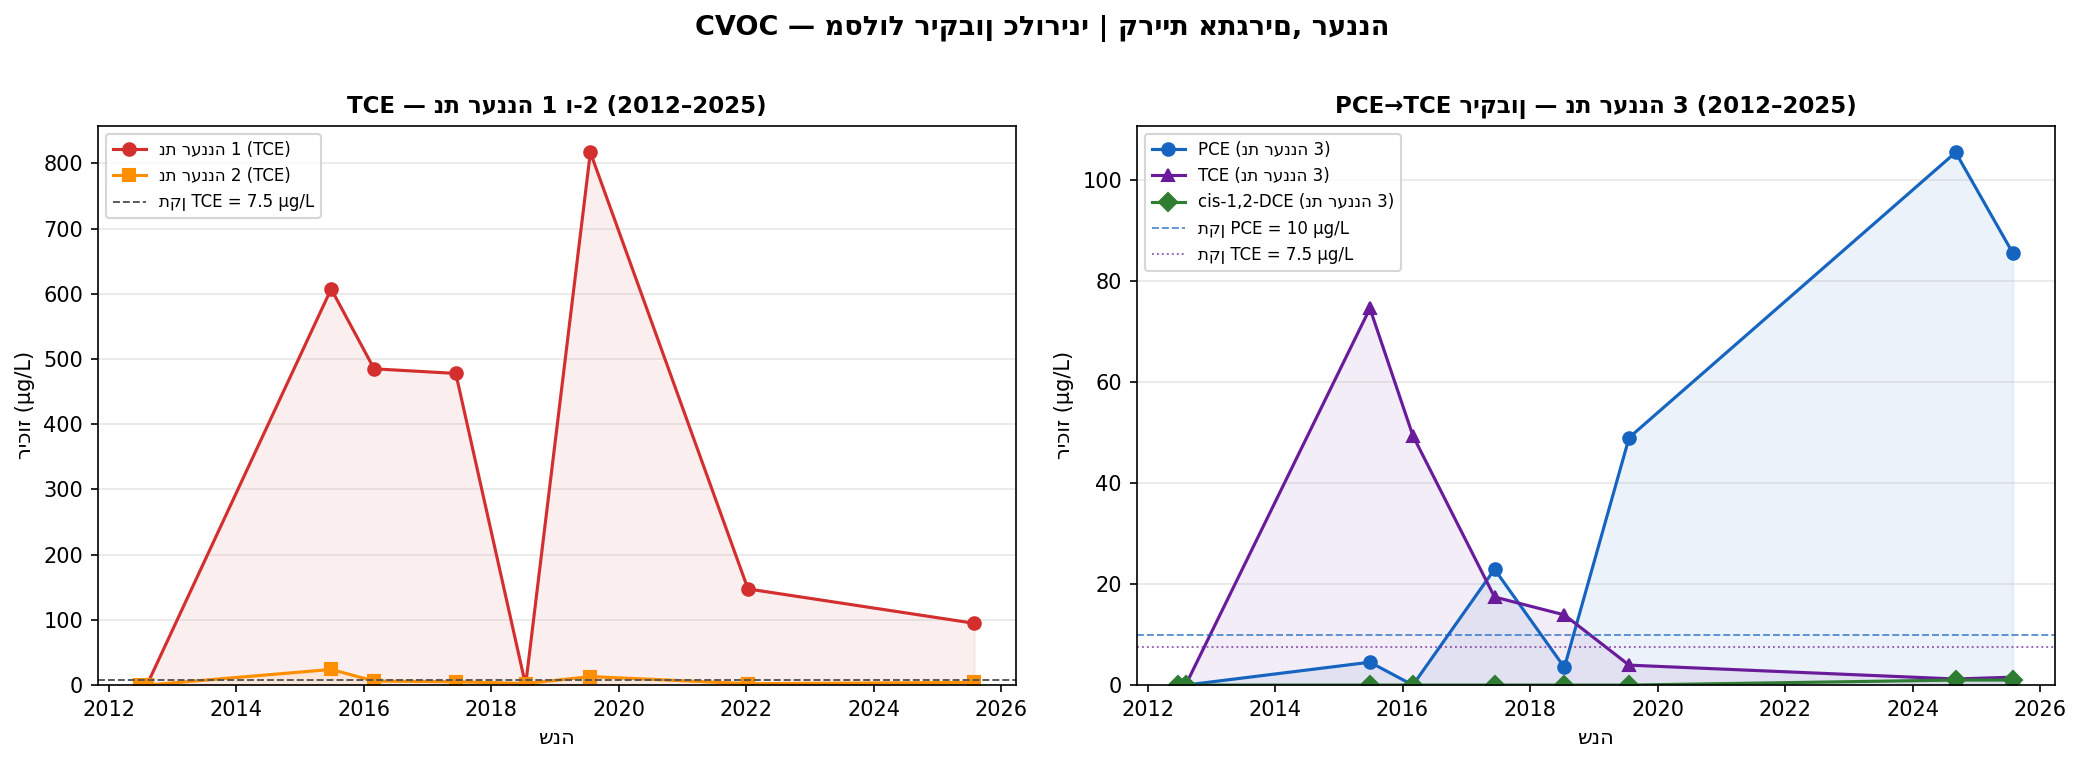
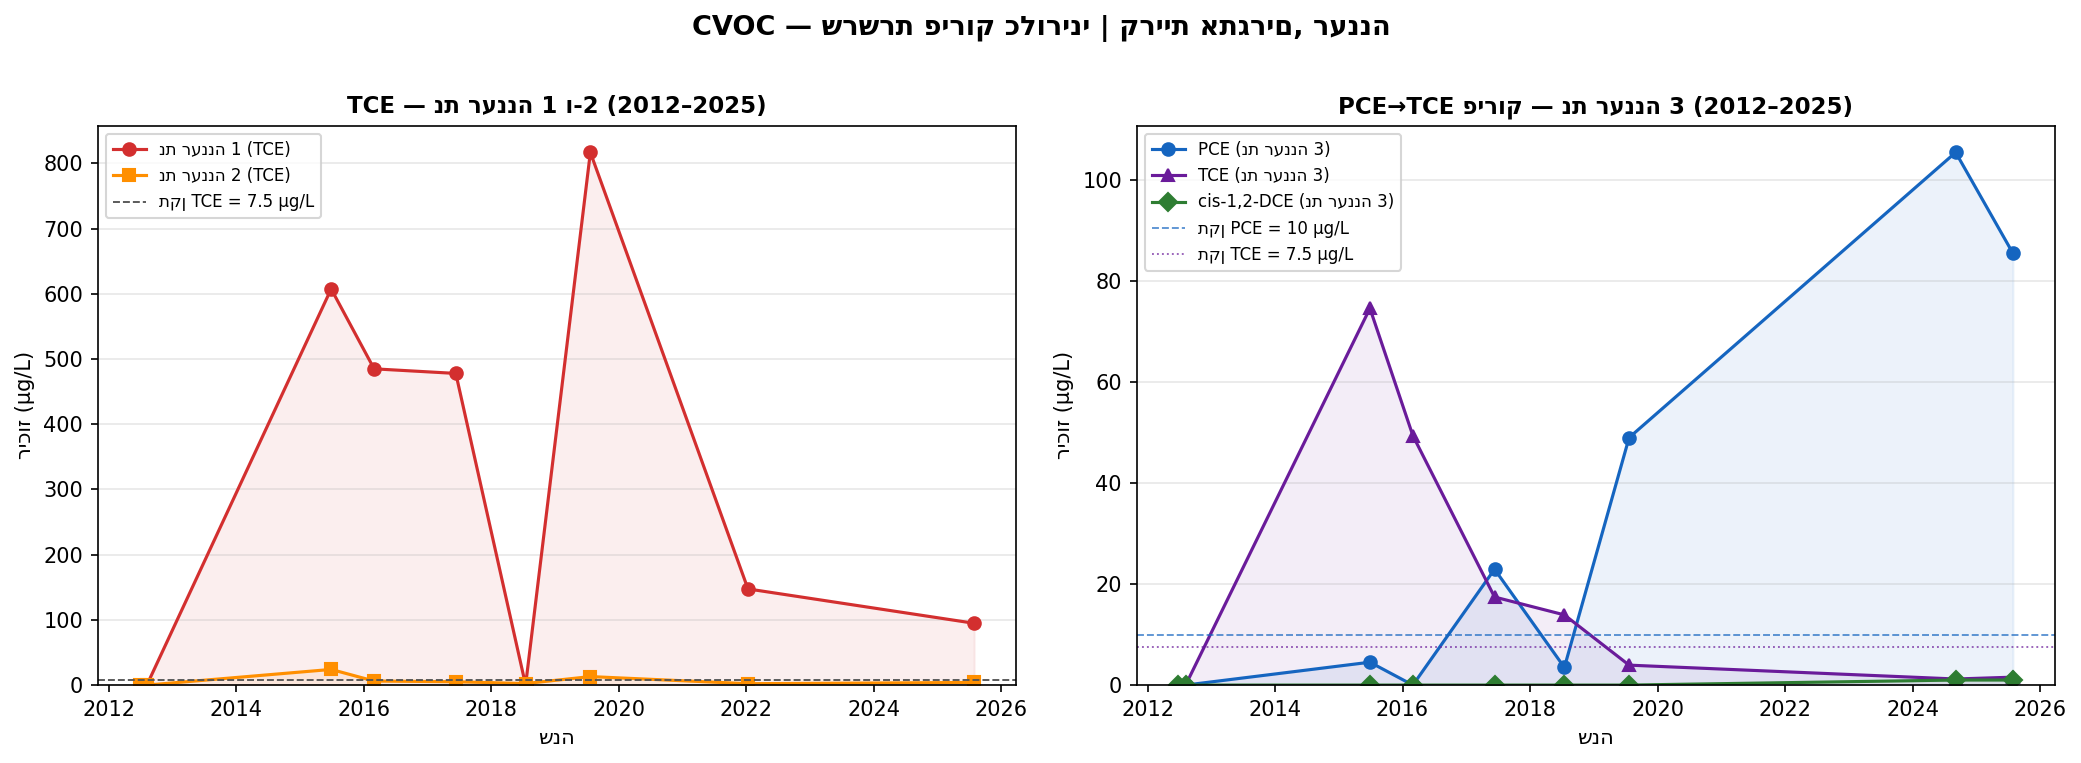
[V2-FIX] Add 4 new V2 charts; fix terminology in chart titles
New charts (generate_charts_v2.py → Raanana/charts_v2/):
  6. cvoc_stacked_grouped.png      — CVOC by borehole + year (stacked grouped bars)
  7. pfas_pct_stacked.png          — 100%-stacked PFAS S/A source signature
  8. btex_family_stacked.png       — BTEX full family stacked at Paz Hanofer
  9. cvoc_pct_standard_panel.png   — 4-borehole panel: % of standard TCE/PCE

Also fixed chart-title terminology in existing charts:
  - "ריקבון" → "פירוק" in cvoc_timeseries panel titles

All 26 tests pass; 9 charts generated from measurements.csv (2,613 rows).

Tracing: measurements.csv 2011-2026; chart_presets.json palettes
https://claude.ai/code/session_01VLoT2vE82jwapmUNCB4wRe

Changed region(s): [[0.3436, 0.0, 0.6559, 0.0603], [0.6247, 0.1206, 0.9058, 0.1507]]

diff --git a/scripts/generate_charts_v2.py b/scripts/generate_charts_v2.py
@@ -1,10 +1,15 @@
 """Generate V2 charts for Industrial Areas Report — Raanana zone.
 
 Charts produced:
-  1. cvoc_timeseries.png         — TCE (nt_1, nt_2) + PCE (nt_3) time-series 2012-2025
-  2. pfas_stacked_turbine.png    — PFAS species at nd_turbine, S/A groups, absolute + % of standard
-  3. btex_timeseries_paz.png     — Benzene at nd_paz 2011-2024
-  4. cvoc_cross_borehole.png     — Max annual TCE/PCE across boreholes comparison
+  1. cvoc_timeseries.png          — TCE (nt_1, nt_2) + PCE (nt_3) time-series 2012-2025
+  2. pfas_stacked_turbine.png     — PFAS species at nd_turbine, S/A groups, absolute + % of standard
+  3. btex_timeseries_paz.png      — Benzene at nd_paz 2011-2024
+  4. cvoc_cross_borehole.png      — Max annual TCE/PCE across boreholes comparison
+  5. tce_timeseries_p25.png       — TCE at p25 production well (exceedance detail)
+  6. cvoc_stacked_grouped.png     — Stacked-grouped CVOC (TCE+PCE+cis-DCE) by year per borehole
+  7. pfas_pct_stacked.png         — 100%-stacked PFAS for AFFF source-signature (S/A grouping)
+  8. btex_family_stacked.png      — BTEX full family stacked at Paz Hanofer
+  9. cvoc_pct_standard_panel.png  — 4-borehole panel: % of standard TCE/PCE over time
 
 Usage:
   python scripts/generate_charts_v2.py [--zone raanana] [--output Raanana/charts_v2]
@@ -104,14 +109,14 @@ def chart_cvoc_timeseries(df: pd.DataFrame, out: Path) -> None:
 
     ax.axhline(10.0, color="#1565C0", linestyle="--", linewidth=0.9, alpha=0.7, label="תקן PCE = 10 µg/L")
     ax.axhline(7.5, color="#6A1B9A", linestyle=":", linewidth=0.9, alpha=0.7, label="תקן TCE = 7.5 µg/L")
-    ax.set_title("PCE→TCE ריקבון — נת רעננה 3 (2012–2025)", fontsize=11, fontweight="bold")
+    ax.set_title("PCE→TCE פירוק — נת רעננה 3 (2012–2025)", fontsize=11, fontweight="bold")
     ax.set_ylabel("ריכוז (µg/L)", fontsize=10)
     ax.set_xlabel("שנה", fontsize=10)
     ax.legend(fontsize=8, loc="upper left")
     ax.grid(axis="y", alpha=0.3)
     ax.set_ylim(bottom=0)
 
-    fig.suptitle("CVOC — מסלול ריקבון כלוריני | קריית אתגרים, רעננה", fontsize=13, fontweight="bold", y=1.01)
+    fig.suptitle("CVOC — שרשרת פירוק כלוריני | קריית אתגרים, רעננה", fontsize=13, fontweight="bold", y=1.01)
     plt.tight_layout()
     fig.savefig(out / "cvoc_timeseries.png", dpi=150, bbox_inches="tight")
     plt.close(fig)
@@ -338,6 +343,238 @@ def chart_tce_p25(df: pd.DataFrame, out: Path) -> None:
     print(f"  Saved: tce_timeseries_p25.png")
 
 
+# ── Chart 6: Stacked-Grouped CVOC by Year ─────────────────────────────────────
+def chart_cvoc_stacked_grouped(df: pd.DataFrame, out: Path) -> None:
+    """Stacked grouped bar: TCE+PCE+cis-DCE per borehole, selected years."""
+    years = [2012, 2015, 2018, 2022, 2025]
+    boreholes = ["raanana_nt_1", "raanana_nt_2", "raanana_nt_3", "raanana_p_25"]
+    bh_labels = ["נת רעננה 1", "נת רעננה 2", "נת רעננה 3", "פ רעננה 25"]
+    params = [("TCEY", "TCE", "#D32F2F"), ("TECE", "PCE", "#1565C0"), ("CDCE", "cis-1,2-DCE", "#2E7D32")]
+
+    x = np.arange(len(boreholes))
+    total_width = 0.72
+    group_width = total_width / len(years)
+    offsets = np.linspace(-total_width / 2 + group_width / 2, total_width / 2 - group_width / 2, len(years))
+
+    fig, ax = plt.subplots(figsize=(14, 6))
+
+    legend_handles = {}
+    for yi, (year, offset) in enumerate(zip(years, offsets)):
+        year_df = df[df["date"].dt.year == year]
+        bottoms = np.zeros(len(boreholes))
+        for param_code, param_label, color in params:
+            heights = []
+            for bh in boreholes:
+                sub = year_df[(year_df.canonical_id == bh) & (year_df.param_code == param_code)]
+                heights.append(sub["concentration"].mean() if not sub.empty else 0.0)
+            heights = np.array(heights)
+            bars = ax.bar(x + offset, heights, width=group_width * 0.85,
+                          bottom=bottoms, color=color, alpha=0.85 - yi * 0.05,
+                          edgecolor="white", linewidth=0.3)
+            bottoms += heights
+            if param_label not in legend_handles:
+                legend_handles[param_label] = mpatches.Patch(color=color, label=param_label)
+
+        # Year label under bar group
+        for xi in x:
+            ax.text(xi + offset, -4, str(year), ha="center", va="top", fontsize=6.5, color="#555",
+                    rotation=90 if len(years) > 4 else 0)
+
+    ax.axhline(7.5, color="#D32F2F", linestyle="--", linewidth=0.9, alpha=0.7, label="תקן TCE = 7.5 µg/L")
+    ax.axhline(10.0, color="#1565C0", linestyle=":", linewidth=0.9, alpha=0.7, label="תקן PCE = 10 µg/L")
+
+    ax.set_xticks(x)
+    ax.set_xticklabels(bh_labels, fontsize=10)
+    ax.set_ylabel("ריכוז ממוצע (µg/L)", fontsize=10)
+    ax.set_title("CVOC — ריכוז לפי קידוח ושנה | קריית אתגרים, רעננה 2012–2025",
+                 fontsize=12, fontweight="bold")
+    ax.set_ylim(bottom=-8)
+
+    year_patches = [mpatches.Patch(color=f"#{hex(int(230 - yi * 40))[2:].zfill(2)}0000",
+                                   alpha=0.85, label=str(y)) for yi, y in enumerate(years)]
+    handles = list(legend_handles.values()) + year_patches + [
+        mpatches.Patch(color="none", label=""),
+        plt.Line2D([0], [0], color="#D32F2F", linestyle="--", linewidth=0.9, label="תקן TCE 7.5"),
+        plt.Line2D([0], [0], color="#1565C0", linestyle=":", linewidth=0.9, label="תקן PCE 10"),
+    ]
+    ax.legend(handles=handles, fontsize=8, ncol=2, loc="upper right")
+    ax.grid(axis="y", alpha=0.25)
+
+    plt.tight_layout()
+    fig.savefig(out / "cvoc_stacked_grouped.png", dpi=150, bbox_inches="tight")
+    plt.close(fig)
+    print(f"  Saved: cvoc_stacked_grouped.png")
+
+
+# ── Chart 7: 100%-Stacked PFAS (AFFF source signature) ───────────────────────
+def chart_pfas_pct_stacked(df: pd.DataFrame, out: Path) -> None:
+    """100%-stacked PFAS — S vs A group fraction reveals AFFF signature."""
+    turbine = df[df.canonical_id == "raanana_nd_turbine"].copy()
+    if turbine.empty:
+        return
+
+    all_pfas_codes = list(PFAS_S_COLORS.keys()) + list(PFAS_A_COLORS.keys())
+    latest = turbine[turbine.date == turbine.date.max()]
+
+    detected = {}
+    for code in all_pfas_codes:
+        row = latest[latest.param_code == code]
+        val = float(row["concentration"].values[0]) if not row.empty else 0.0
+        if val > PFAS_LOD:
+            detected[code] = val
+
+    total = sum(detected.values())
+    if total == 0:
+        return
+
+    species = list(detected.keys())
+    fractions = [detected[s] / total * 100 for s in species]
+    colors = [PFAS_S_COLORS.get(s, PFAS_A_COLORS.get(s, "#BDBDBD")) for s in species]
+
+    fig, axes = plt.subplots(1, 2, figsize=(13, 6))
+
+    # Left: 100%-stacked horizontal bar
+    ax = axes[0]
+    left = 0
+    for s, frac, color in zip(species, fractions, colors):
+        ax.barh(["נד תחנת טורבינות\n30.07.2025"], [frac], left=left, color=color,
+                edgecolor="white", linewidth=0.5, label=f"{s}: {frac:.1f}%")
+        if frac > 4:
+            ax.text(left + frac / 2, 0, f"{s}\n{frac:.0f}%", ha="center", va="center",
+                    fontsize=8, color="white" if frac > 10 else "#333", fontweight="bold")
+        left += frac
+
+    # S/A boundary
+    s_total_pct = sum(detected[s] / total * 100 for s in species if s in PFAS_S_COLORS)
+    ax.axvline(s_total_pct, color="#FFD600", linewidth=2, linestyle="--")
+    ax.text(s_total_pct / 2, 0.55, f"S-group\n{s_total_pct:.0f}%", ha="center",
+            fontsize=9, color="#0D47A1", fontweight="bold")
+    ax.text((s_total_pct + 100) / 2, 0.55, f"A-group\n{100 - s_total_pct:.0f}%", ha="center",
+            fontsize=9, color="#BF360C", fontweight="bold")
+
+    ax.set_xlim(0, 100)
+    ax.set_xlabel("% מסך PFAS שנמדד", fontsize=10)
+    ax.set_title("חתימת מקור PFAS\n(S-group כחול / A-group כתום)", fontsize=11, fontweight="bold")
+    ax.grid(axis="x", alpha=0.25)
+
+    # Right: absolute concentrations per species with % of standard
+    ax = axes[1]
+    x_pos = np.arange(len(species))
+    bar_colors = [PFAS_S_COLORS.get(s, PFAS_A_COLORS.get(s, "#BDBDBD")) for s in species]
+    bars = ax.bar(x_pos, [detected[s] for s in species], color=bar_colors,
+                  edgecolor="white", linewidth=0.5)
+    ax.axhline(0.1, color="#E53935", linestyle="--", linewidth=1.2, label="תקן = 0.1 µg/L")
+    ax.set_xticks(x_pos)
+    ax.set_xticklabels(species, rotation=30, ha="right", fontsize=9)
+    ax.set_ylabel("ריכוז (µg/L)", fontsize=10)
+    ax.set_title("ריכוז מוחלט לפי מין PFAS\n(vs. תקן 0.1 µg/L)", fontsize=11, fontweight="bold")
+    ax.legend(fontsize=9)
+    ax.grid(axis="y", alpha=0.25)
+    for bar, s in zip(bars, species):
+        pct = detected[s] / 0.1 * 100
+        if pct > 20:
+            ax.text(bar.get_x() + bar.get_width() / 2, bar.get_height() * 1.03,
+                    f"{pct:.0f}%", ha="center", va="bottom", fontsize=8, fontweight="bold",
+                    color="#B71C1C")
+
+    fig.suptitle("PFAS — חתימת מקור AFFF | נד תחנת טורבינות גז רעננה (30.07.2025)",
+                 fontsize=12, fontweight="bold", y=1.01)
+    plt.tight_layout()
+    fig.savefig(out / "pfas_pct_stacked.png", dpi=150, bbox_inches="tight")
+    plt.close(fig)
+    print(f"  Saved: pfas_pct_stacked.png")
+
+
+# ── Chart 8: BTEX Full-Family Stacked at Paz ─────────────────────────────────
+def chart_btex_family_stacked(df: pd.DataFrame, out: Path) -> None:
+    """Stacked area: Benzene + Toluene + MTBE at nd_paz_hanofer over time."""
+    paz = df[df.canonical_id == "raanana_nd_paz_hanofer"].copy()
+    params = [
+        ("BENZ",  "בנזן",   "#D32F2F"),
+        ("TOLU",  "טולואן",  "#F57C00"),
+        ("MTBE",  "MTBE",   "#7B1FA2"),
+        ("ETBE",  "ETBE",   "#00838F"),
+        ("XYLE",  "קסילן",  "#558B2F"),
+    ]
+
+    fig, ax = plt.subplots(figsize=(11, 5))
+
+    all_dates = pd.date_range(
+        paz["date"].min(), paz["date"].max(), freq="MS"
+    ) if not paz.empty else []
+
+    plotted = False
+    for param_code, label, color in params:
+        sub = paz[paz.param_code == param_code].sort_values("date")
+        if sub.empty or sub["concentration"].max() == 0:
+            continue
+        plotted = True
+        ax.fill_between(sub["date"], 0, sub["concentration"],
+                        alpha=0.45, color=color, label=label)
+        ax.plot(sub["date"], sub["concentration"], color=color, linewidth=1.2,
+                marker="o", markersize=5)
+
+    if not plotted:
+        ax.text(0.5, 0.5, "אין נתוני BTEX", transform=ax.transAxes,
+                ha="center", va="center", fontsize=14)
+    else:
+        ax.axhline(5.0, color="#D32F2F", linestyle="--", linewidth=1.0, alpha=0.8,
+                   label="תקן בנזן = 5 µg/L")
+
+    ax.set_title("BTEX — משפחת פחמימנים | נד פז הנופר (2011–2024)\nתחנת דלק פז הנופר, אזה\"ת רעננה",
+                 fontsize=11, fontweight="bold")
+    ax.set_ylabel("ריכוז (µg/L)", fontsize=10)
+    ax.set_xlabel("שנה", fontsize=10)
+    ax.legend(fontsize=9, loc="upper right")
+    ax.grid(axis="y", alpha=0.25)
+    ax.set_ylim(bottom=0)
+
+    plt.tight_layout()
+    fig.savefig(out / "btex_family_stacked.png", dpi=150, bbox_inches="tight")
+    plt.close(fig)
+    print(f"  Saved: btex_family_stacked.png")
+
+
+# ── Chart 9: 4-Borehole % of Standard Panel ───────────────────────────────────
+def chart_cvoc_pct_standard_panel(df: pd.DataFrame, out: Path) -> None:
+    """Panel of 4 boreholes showing TCE and PCE as % of drinking water standard."""
+    boreholes = ["raanana_nt_1", "raanana_nt_2", "raanana_nt_3", "raanana_p_25"]
+    bh_labels = ["נת רעננה 1", "נת רעננה 2", "נת רעננה 3", "פ רעננה 25"]
+
+    fig, axes = plt.subplots(2, 2, figsize=(14, 9), sharey=False)
+    axes = axes.flatten()
+
+    for ax, bh_id, label in zip(axes, boreholes, bh_labels):
+        for param_code, param_label, dws_val, color, marker, ls in [
+            ("TCEY", "TCE", 7.5,  "#D32F2F", "o", "-"),
+            ("TECE", "PCE", 10.0, "#1565C0", "s", "--"),
+            ("CDCE", "cis-1,2-DCE", 50.0, "#2E7D32", "^", ":"),
+        ]:
+            sub = df[(df.canonical_id == bh_id) & (df.param_code == param_code)].sort_values("date")
+            sub = sub[sub["concentration"] > 0]
+            if sub.empty:
+                continue
+            pct = sub["concentration"] / dws_val * 100
+            ax.plot(sub["date"], pct, marker=marker, color=color, linewidth=1.5,
+                    markersize=5, linestyle=ls, label=f"{param_label} (תקן {dws_val} µg/L)")
+            ax.fill_between(sub["date"], 0, pct, alpha=0.07, color=color)
+
+        ax.axhline(100, color="#E53935", linestyle="--", linewidth=1.2, alpha=0.8, label="100% (חריגה מתקן)")
+        ax.set_title(label, fontsize=11, fontweight="bold")
+        ax.set_ylabel("% מהתקן", fontsize=9)
+        ax.set_xlabel("שנה", fontsize=9)
+        ax.legend(fontsize=7.5, loc="upper left")
+        ax.grid(axis="y", alpha=0.25)
+        ax.set_ylim(bottom=0)
+
+    fig.suptitle("CVOC — אחוז מתקן מי שתיה לפי קידוח | קריית אתגרים, רעננה 2012–2025",
+                 fontsize=13, fontweight="bold", y=1.01)
+    plt.tight_layout()
+    fig.savefig(out / "cvoc_pct_standard_panel.png", dpi=150, bbox_inches="tight")
+    plt.close(fig)
+    print(f"  Saved: cvoc_pct_standard_panel.png")
+
+
 # ── Main ──────────────────────────────────────────────────────────────────────
 def main():
     parser = argparse.ArgumentParser(description="Generate V2 charts for a zone")
@@ -362,8 +599,12 @@ def main():
     chart_btex_timeseries(df, out)
     chart_cvoc_cross_borehole(df, out)
     chart_tce_p25(df, out)
+    chart_cvoc_stacked_grouped(df, out)
+    chart_pfas_pct_stacked(df, out)
+    chart_btex_family_stacked(df, out)
+    chart_cvoc_pct_standard_panel(df, out)
 
-    print(f"[V2 Charts] Done — 5 charts saved to {out}/")
+    print(f"[V2 Charts] Done — 9 charts saved to {out}/")
 
 
 if __name__ == "__main__":